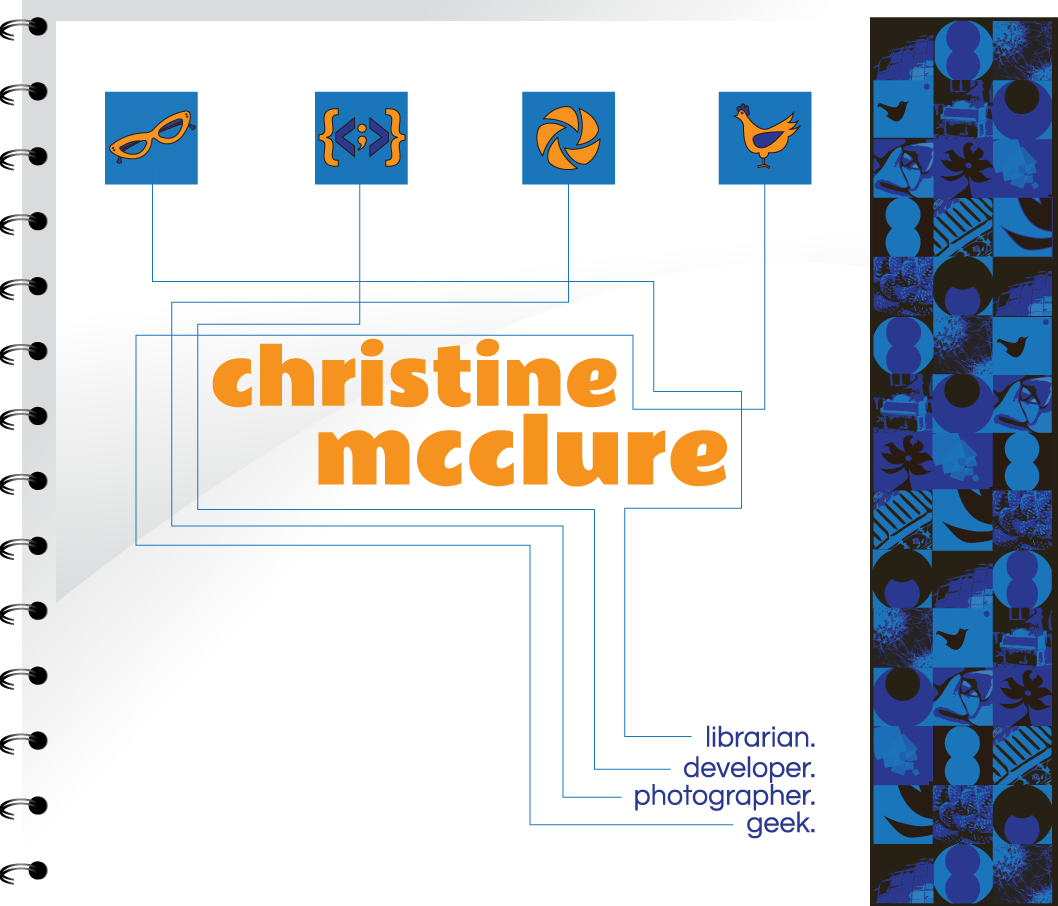
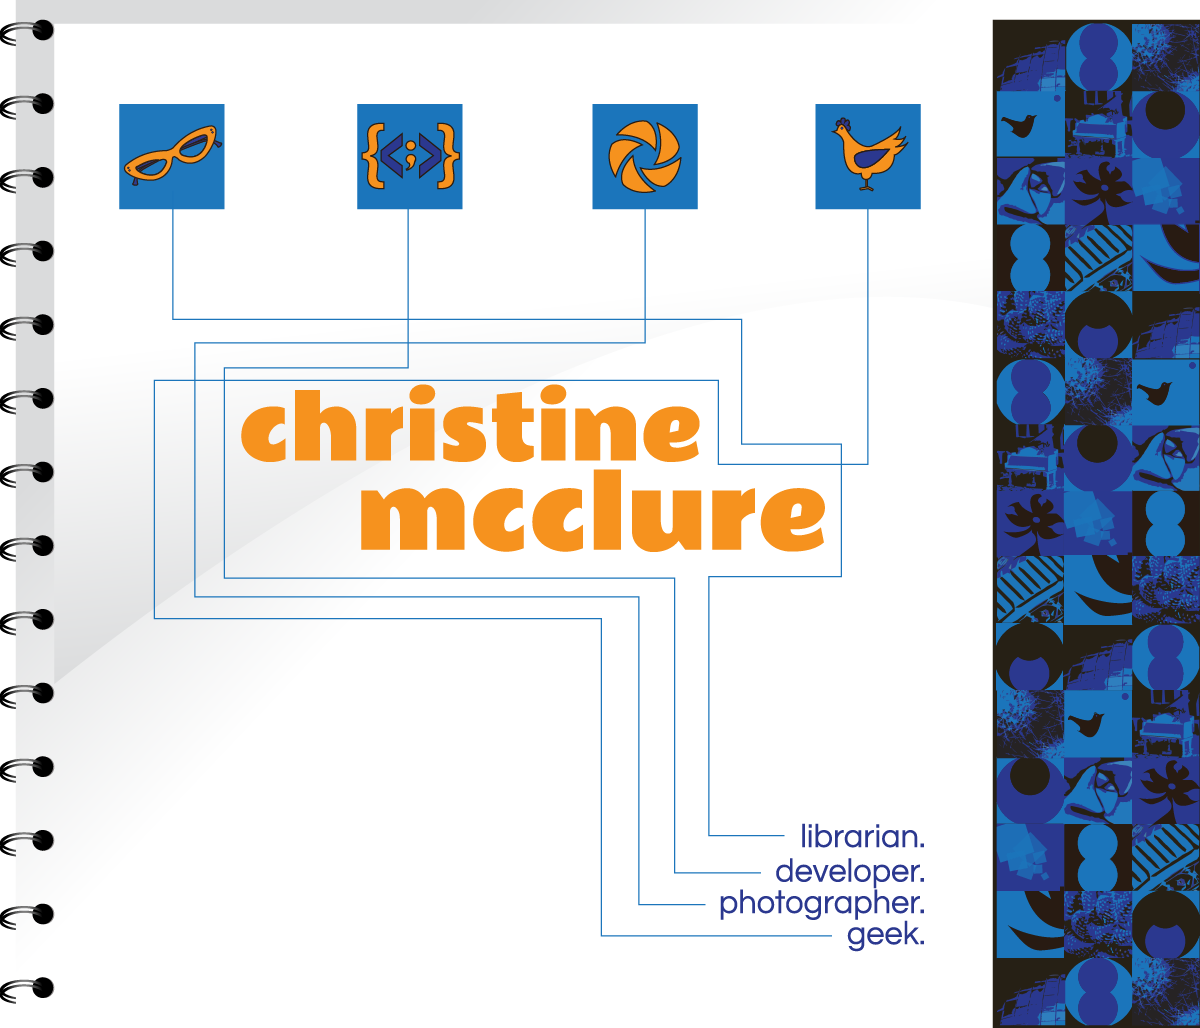
added back cover image and corrected cover image

diff --git a/com528project/stylesheets/main.css b/com528project/stylesheets/main.css
@@ -92,7 +92,7 @@ img {
 }
 
 /* line 80, ../sass/main.scss */
-.booklet .b-p1 .b-wrap-left {
+.booklet .b-p1 .b-wrap-left, .booklet .b-p2 .b-wrap-right {
   background: none;
 }
 
@@ -129,7 +129,15 @@ img {
   background-repeat: no-repeat;
 }
 
-/* line 124, ../sass/main.scss */
+/* line 118, ../sass/main.scss */
+.booklet .b-page-60 .b-wrap-left {
+  background: url(/com528project/images/back-cover.png);
+  background-size: contain;
+  background-position: top left;
+  background-repeat: no-repeat;
+}
+
+/* line 130, ../sass/main.scss */
 #tocText a {
   display: inline-block;
   margin: 20px;
@@ -137,13 +145,13 @@ img {
   background: yellow;
 }
 
-/* line 132, ../sass/main.scss */
+/* line 138, ../sass/main.scss */
 #tocImages img {
   top: 0;
   right: 0;
 }
 
-/* line 139, ../sass/main.scss */
+/* line 145, ../sass/main.scss */
 .booklet .b-page-3 .b-wrap-right {
   background: url(/com528project/images/background.jpg);
   background-size: contain;
@@ -151,7 +159,7 @@ img {
   background-position: top right;
 }
 
-/* line 147, ../sass/main.scss */
+/* line 153, ../sass/main.scss */
 .booklet .b-arrow-prev {
   left: -50px;
 }

diff --git a/com528project/sass/main.scss b/com528project/sass/main.scss
@@ -77,7 +77,7 @@ img {
   max-height: 100%;
 }
 
-.booklet .b-p1 .b-wrap-left {
+.booklet .b-p1 .b-wrap-left, .booklet .b-p2 .b-wrap-right{
   background:none;
 }
 
@@ -107,7 +107,7 @@ img {
 }
 
 
-//cover only
+//covers only
 .booklet .b-page-1 .b-wrap-right {
   background: url(/com528project/images/cover.png);
   background-size:contain;
@@ -115,6 +115,12 @@ img {
   background-repeat: no-repeat;
 }
 
+.booklet .b-page-60 .b-wrap-left {
+  background: url(/com528project/images/back-cover.png);
+  background-size:contain;
+  background-position: top left;
+  background-repeat: no-repeat;
+}
 
 
 

diff --git a/com528project/index.php b/com528project/index.php
@@ -262,9 +262,9 @@
     <div class="right">
       <img src="images/paper.png" />
     </div>
-  <div class="left">
-      <img src="images/paper.png" />
+  <div id="back-cover">
   </div>
+
 </div>
 
   <script>
